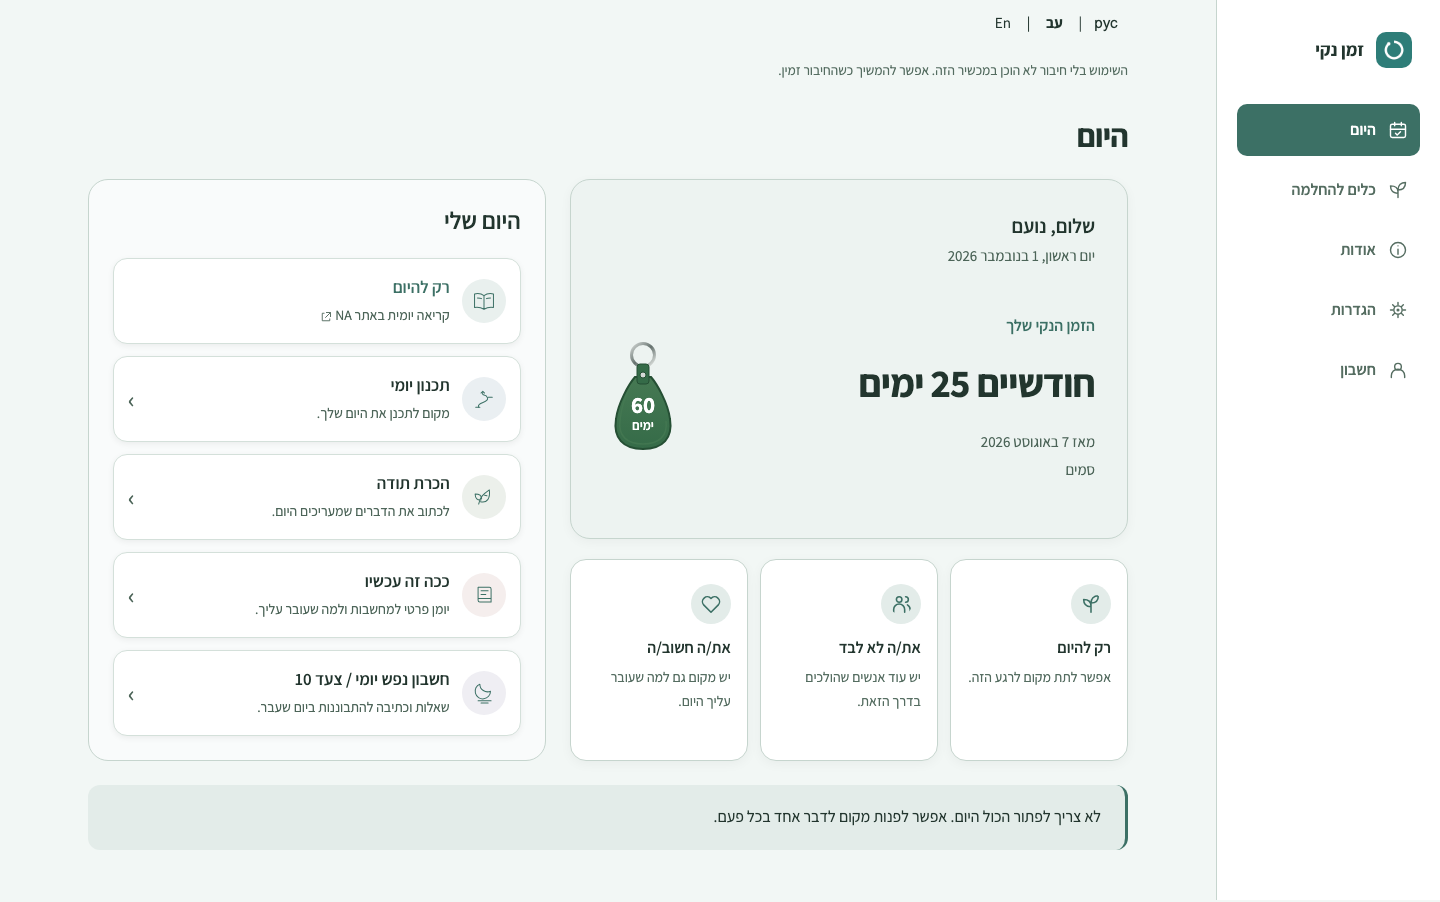
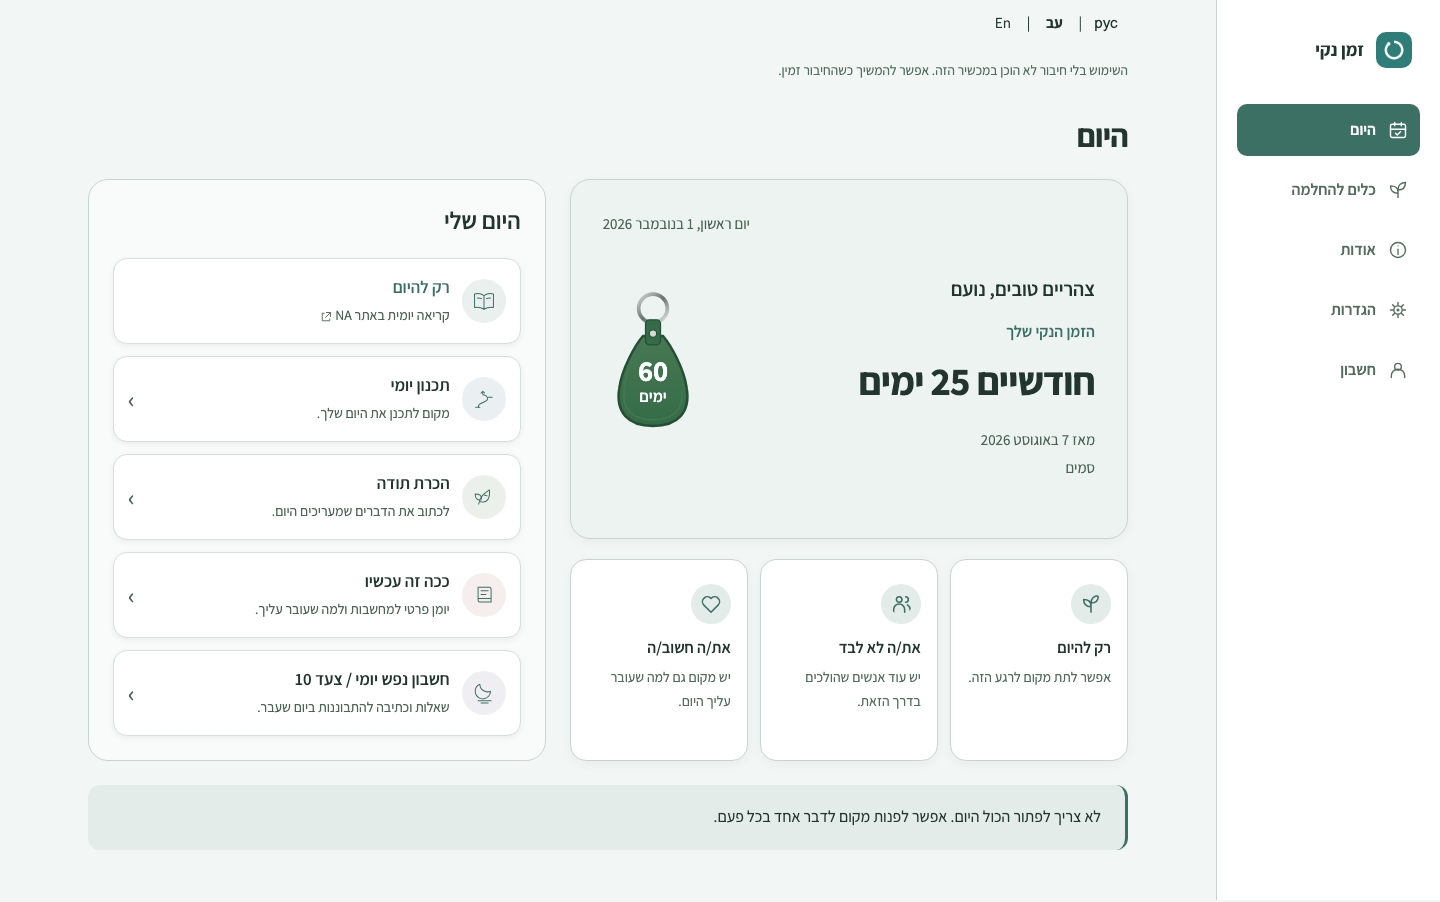
Refresh final counter polish Preview screenshots and evidence

diff --git a/docs/PR-81-HOME-BALANCE-UAT.md b/docs/PR-81-HOME-BALANCE-UAT.md
@@ -1,42 +1,53 @@
-# PR #81 — Home column balance refinement
+# PR #81 — Home balance and final counter polish
 
 [Draft PR #81](https://github.com/onahum2023/clean-time/pull/81) ·
-[Updated protected Preview](https://clean-time-9q38lwpjx-nu-cielo.vercel.app/) ·
+[Updated protected Preview](https://clean-time-du8apw79u-nu-cielo.vercel.app/) ·
 [Integrated UAT checklist](ISSUE-80-INTEGRATED-UAT.md)
 
-**HOLD for owner visual review. No merge or Production deployment.**
-This visual refinement addresses the remaining unused vertical space between
-Home's three supporting cards and its full-width reflection strip.
+**Desktop balance accepted by the owner; final counter polish awaits review.**
+PR remains Draft/HOLD. No merge or Production deployment.
 
-## Refinement
+## Final counter polish
 
-The desktop timer is now a stronger anchor, with a 360px minimum height at 1440px.
-Its greeting uses the existing saved profile name when available, rendered as
-plain text. Without a name it shows a simple localized hello. Today's localized
-weekday/date now sits inside the timer beneath that greeting. Calendar duration,
-start date, recovery identity and the optional milestone remain grouped below.
-If a recovery label exactly repeats the greeting's saved name, that duplicate
-identity line is hidden; no saved value is changed.
+The accepted two-column balance is preserved: a 360px minimum-height timer and
+200px minimum-height supporting-card row fill the existing desktop grid row.
+Only the normal 24px gutter (20px at the 1024px threshold) separates the three
+cards from the full-width reflection. Long text/secondary counters can grow
+naturally; existing mobile summary, actions and fixed footer stay unchanged.
 
-The supporting-card row has a 200px minimum height and roomier padding. The whole
-counter/supporting-card column fills its existing desktop grid row, so the gap
-from those cards to the reflection is just the normal 24px grid gutter at 1440px
-(20px at the 1024px threshold). Content can grow with long names, translations,
-text enlargement and secondary-counter details. The two-column order, rail,
-action destinations and calm palette surfaces stay intact.
+Today's localized date is now in the timer's **physical top-left corner** in all
+languages. The content column reads: personal greeting → clean-time label →
+main calendar duration → start date. The duration remains the largest text.
+The milestone badge grows from 80×112 to **100×140px** at wider desktop sizes
+and moves up 16px. At 1024px it grows from 64×90 to **80×112px**, raised 8px,
+with a dedicated column to prevent overlap. Mobile retains its original badge.
 
-The greeting/date block is desktop-only. Mobile retains its approved summary,
-2×2 daily-action grid, full-width Step 10 and five-destination fixed footer.
-No new settings, content feeds, scheduling, requests, storage keys or backend
-connections are introduced. Existing name/date data is only read for display.
+The greeting uses the existing saved profile name as plain text. With no name,
+it shows the greeting without an invented identity or dangling comma. An exact
+repetition of that name in the recovery identity line remains visually hidden;
+no saved value is changed.
+
+| Device-local time | Hebrew | English | Russian |
+| --- | --- | --- | --- |
+| 05:00–11:59 | בוקר טוב | Good morning | Доброе утро |
+| 12:00–16:59 | צהריים טובים | Good afternoon | Добрый день |
+| 17:00–23:59 | ערב טוב | Good evening | Добрый вечер |
+| 00:00–04:59 or unavailable hour | שלום | Hello | Здравствуйте |
+
+The greeting reads `Date#getHours()` in the device timezone and refreshes through
+the existing one-second Home render. This is the only added dynamic scope:
+no new timer, settings, storage keys, scheduling, feed, geolocation, server time
+or backend connection. It never changes recovery records or sync timestamps.
+Mobile keeps its existing app header/greeting; the new card greeting is desktop-only.
 
 ## Fresh actual protected-Preview screenshots
 
 All images below are browser captures from application commit
-`caa274812a64762aa61175d85528216926ac84f8`, version `2026.11.01.14`, at the
+`5cbe05b2cbe488d6dea66eb8953ed2ae08f28f7e`, version `2026.11.01.15`, at the
 protected Preview above. They use synthetic records, primary start date
 7 August 2026 and a fixed 1 November 2026, 13:00 Europe/Amsterdam clock.
-The named examples use the synthetic saved profile name **נועם**; no account
+The named examples use the synthetic saved profile name **נועם**, with
+**צהריים טובים** at the fixed 13:00 local capture time; no account
 creation, personal identity or backend access is involved.
 
 | 1440×900 desktop | Light | Dark |
@@ -77,12 +88,12 @@ are checked separately. Origin-scoped Preview credentials stay in memory.
 
 ## Validation
 
-- **1,867 local assertions pass**, with zero failed suites in this refinement run:
-  Home refinement (139), desktop composition (28), synthetic registered summary
+- **1,903 local assertions pass**, with zero failed suites in this refinement run:
+  local-time greeting (24), Home refinement (151), desktop composition (28), synthetic registered summary
   (53), guided Home/preferences (193), milestone/calendar (56), all-screen 200%
   text/themes (762), navigation (556), offline (21), preference/data upgrades (59).
-- **1,734 actual protected-Preview UI assertions pass**, with zero failed suites:
-  Home refinement (139), composition (28), guided Home (193), milestone/calendar
+- **1,770 actual protected-Preview UI assertions pass**, with zero failed suites:
+  local-time greeting (24), Home refinement (151), composition (28), guided Home (193), milestone/calendar
   (56), enlarged text/themes (762) and navigation (556).
 - **106 deployed workflow checks pass** at 1440px/390px, including appearance
   persistence, exact recovery bytes, Journal reload, Step 10 save/print/PDF and
@@ -91,8 +102,9 @@ are checked separately. Origin-scoped Preview credentials stay in memory.
   now including the in-card greeting/date, across all palettes/backgrounds/device
   accents and light/dark. Hebrew RTL and English/Russian LTR, 320/390/1024/1440px,
   keyboard actions, 200% text and existing counter preferences are covered.
-- **10 actual deployed preservation images are byte-identical** to the previous
-  handoff: mobile Home light/dark plus desktop/mobile Welcome viewport/full-page
+- **14 actual deployed preservation images are byte-identical** to the accepted
+  balance handoff: Original/Forest mobile Home and optional-secondary examples,
+  plus desktop/mobile Welcome viewport/full-page
   captures. The fresh gallery contains 40 deployed PNGs, including named examples.
 - **10 Node contract/build tests pass**, including 3,240 startup compatibility
   combinations. Exact CSP hashes, Preview build, publication/source hygiene,
@@ -103,8 +115,12 @@ that the supporting-card-to-reflection gap equals the grid gutter in all three
 languages, both modes and both desktop widths. Name checks cover safe literal
 rendering, missing-name fallback, duplicate-label suppression via the registered
 summary regression, and unchanged recovery bytes after rendering/reload.
-These scoped refinement checks supplement the earlier full integrated regression
-coverage linked from the UAT checklist; they are not a new full 41-suite run.
+Greeting tests check the same UTC instant in New York, Jerusalem, Tokyo and
+Honolulu, every local time-band boundary, updates without a reload, Hebrew/
+English/Russian wording, literal-name safety and unchanged recovery bytes.
+Hierarchy tests check the top-left date, greeting/label/duration/start-date order,
+duration prominence and larger raised badge. These scoped polish checks supplement the earlier full integrated regression
+coverage linked from the UAT checklist; they are not a fresh full-suite run.
 No real accounts, cloud data, recovery exports or credentials are published.
 
 English/Russian wording, native browser zoom, physical mobile keyboards/safe

diff --git a/docs/ISSUE-80-INTEGRATED-UAT.md b/docs/ISSUE-80-INTEGRATED-UAT.md
@@ -1,10 +1,10 @@
 # Clean Time #80 — integrated visual UAT
 
 [Draft PR #81](https://github.com/onahum2023/clean-time/pull/81) ·
-[Protected application Preview](https://clean-time-9q38lwpjx-nu-cielo.vercel.app/)
+[Protected application Preview](https://clean-time-du8apw79u-nu-cielo.vercel.app/)
 
-**Integrated owner UAT: HOLD. Desktop Home revised following owner feedback.**
-See the [current Home balance refinement and fresh screenshots](PR-81-HOME-BALANCE-UAT.md).
+**Integrated owner UAT: HOLD. Desktop balance accepted; final counter polish awaits owner review.**
+See the [current Home counter polish and fresh screenshots](PR-81-HOME-BALANCE-UAT.md).
 No separate theme/screen approval gates. No Nora review, merge or Production
 deployment. Backend integration remains deferred until after visual UAT.
 
